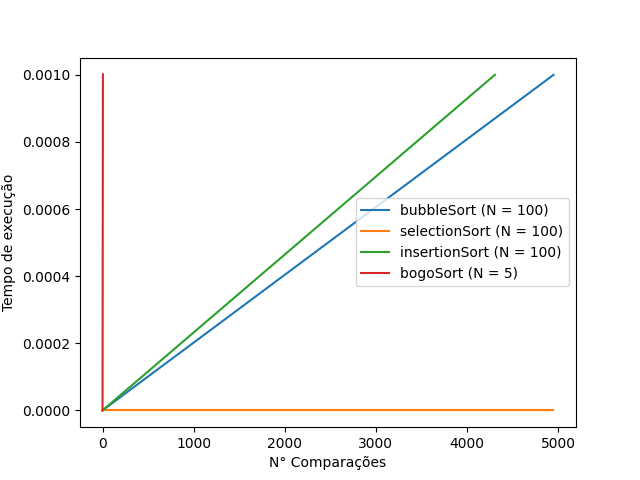
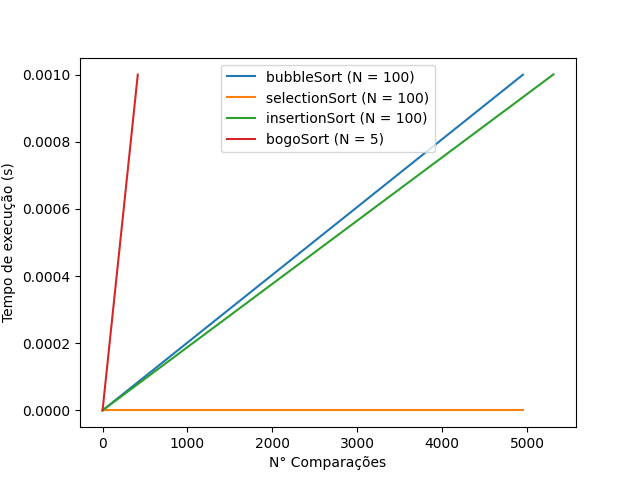
Corrige contador do insertion sort e adiciona mais comentários

diff --git a/algorithms/insertionSort.py b/algorithms/insertionSort.py
@@ -1,15 +1,22 @@
 def insertionSort(arr):
     count = 0
     n = len(arr)
-    # Traverse through 1 to len(arr)
+    # Loop from the second element of the array until
+    # the last element
     for i in range(1, n):
+        # This is the element we want to position in its
+        # correct place
         key = arr[i]
         # Move elements of arr[0..i-1], that are
         # greater than key, to one position ahead
         # of their current position
         j = i-1
+        count = count + 1
         while j >= 0 and key < arr[j] :
-                count = count + 2
+                count = count + 1
+                # Shift the value one position to the left
+                # and reposition j to point to the next element
+                # (from right to left)
                 arr[j + 1] = arr[j]
                 j -= 1
         arr[j + 1] = key

diff --git a/main.py b/main.py
@@ -126,13 +126,13 @@ class Test(object):
 # seja pelo tamanho, tipo ou configuração (ordenado, não ordenado ou quase ordenado), 
 # sendo que precisarão de datasets com tamanhos diferentes dentro de cada eixo.
 
-t = Test(100, True, 'float', 'random', bubbleSort)
+t = Test(10000, True, 'integer', 'ascending', bubbleSort)
 t.runTest()
-t.setTest(100, True, 'float', 'random', selectionSort)
+t.setTest(10000, True, 'integer', 'ascending', selectionSort)
 t.runTest()
-t.setTest(100, True, 'float', 'random', insertionSort)
+t.setTest(10000, True, 'integer', 'ascending', insertionSort)
 t.runTest()
-t.setTest(5, True, 'float', 'random', bogoSort)
+t.setTest(10000, True, 'integer', 'ascending', bogoSort)
 t.runTest()
 t.drawGraph()
 
